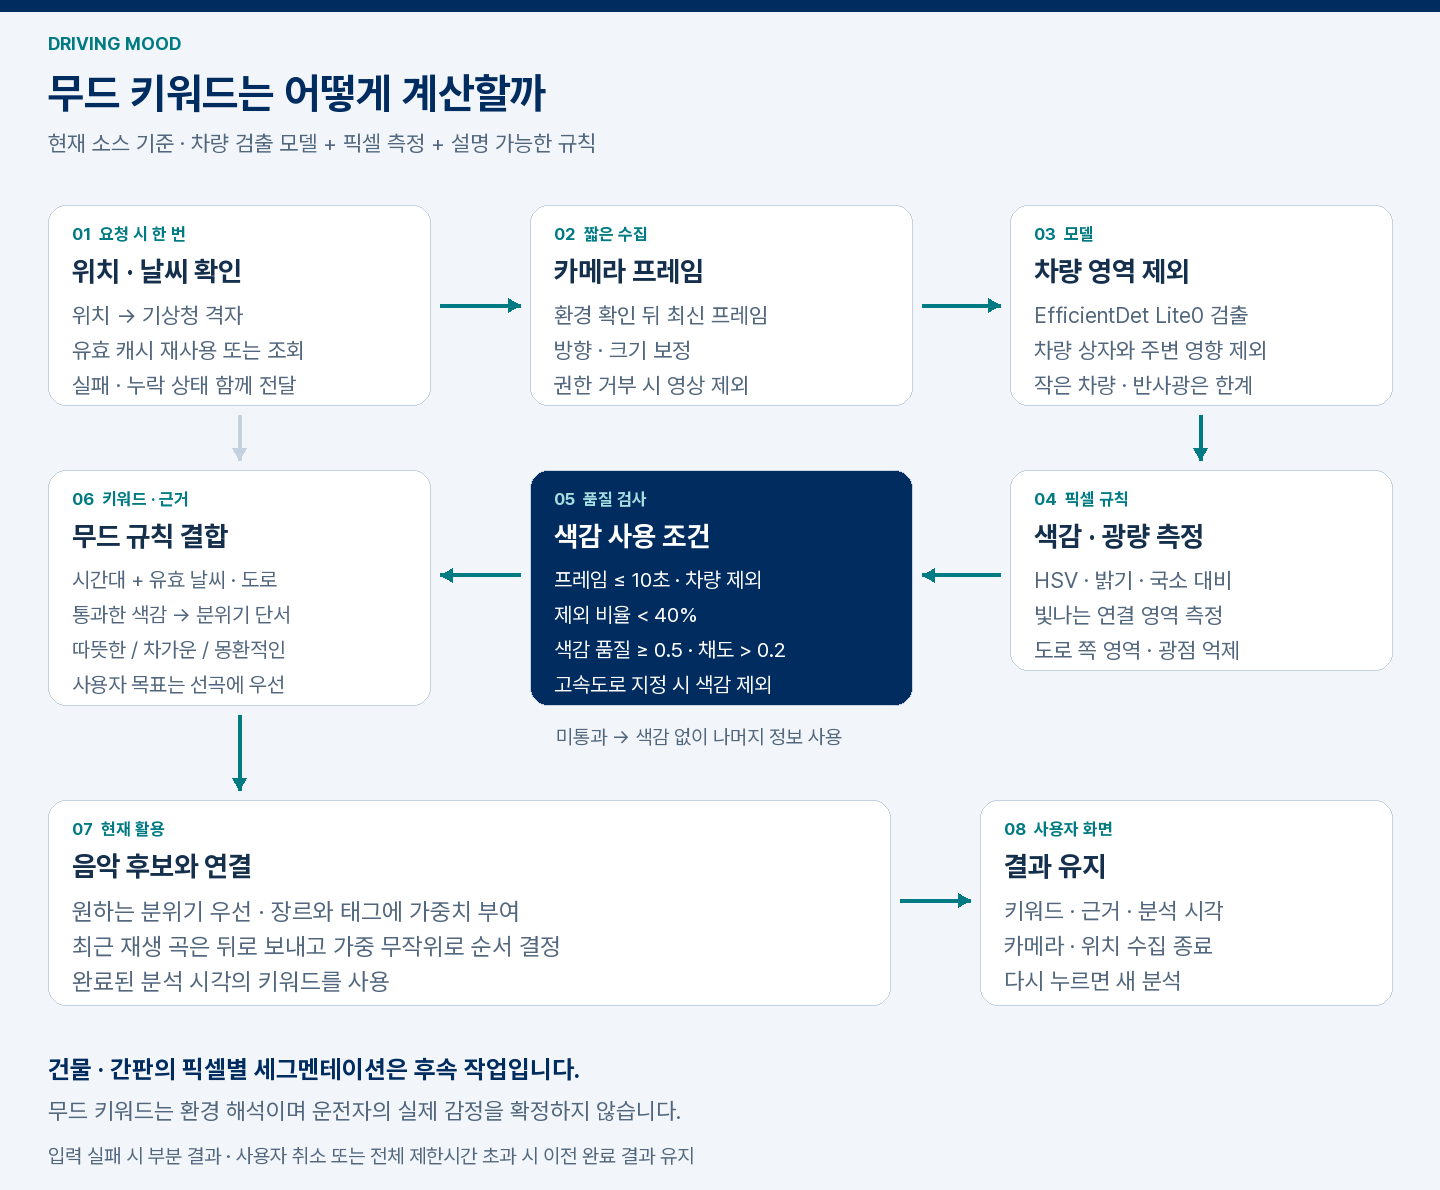
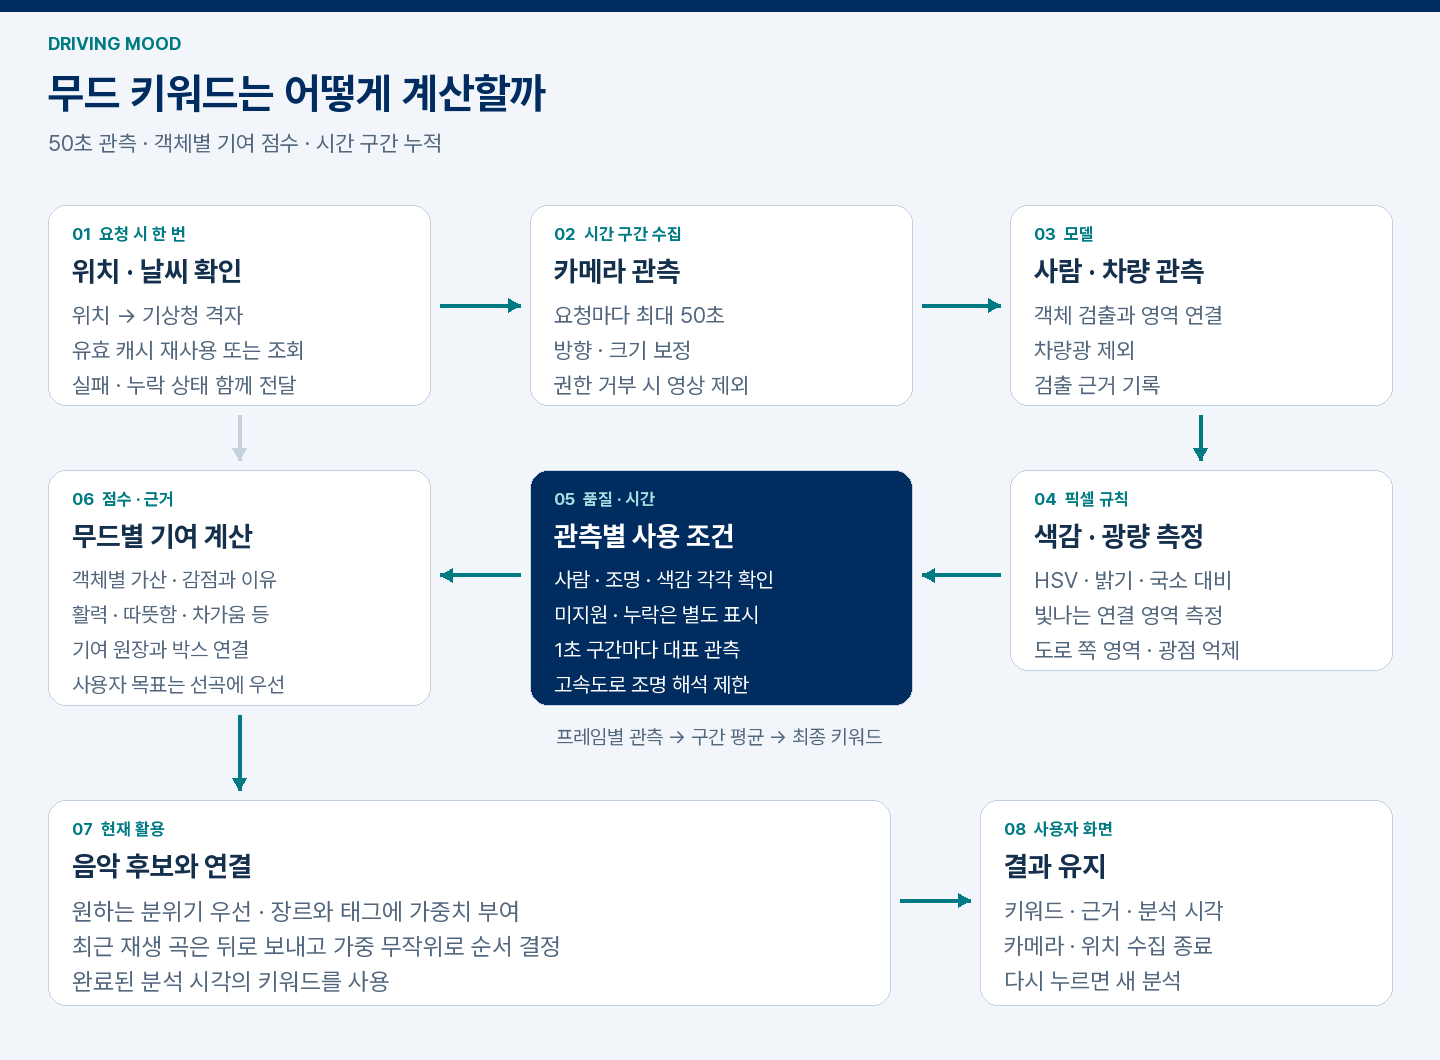
Simplify captions and diagrams for the analysis mechanism

diff --git a/scripts/render-project-visuals.py b/scripts/render-project-visuals.py
@@ -77,47 +77,44 @@ def overview():
     c.card((1040,570,1392,720), "주변 장소", ["분위기에 맞는 장소 추천"], tag="후속 확장")
     for y in (285,465,645):
         c.arrow([(945,450),(985,450),(985,y),(1030,y)])
-    c.text(48,755,"사용자 목표는 음악 추천에 우선 반영 · 공통 엔진 분리와 차량 연동은 후속 개발",20,color=MUTED)
+    c.text(48,755,"사용자 목표는 음악 추천에 우선 반영 · 공용 점수기로 근거 연결 · 차량 연동은 후속 개발",20,color=MUTED)
     c.save("mood-overview.png")
 
 
 def algorithm():
-    c = Canvas(1440, 1190, "무드 키워드는 어떻게 계산할까", "현재 소스 기준 · 차량 검출 모델 + 픽셀 측정 + 설명 가능한 규칙")
+    c = Canvas(1440, 1060, "무드 키워드는 어떻게 계산할까", "50초 관측 · 객체별 기여 점수 · 시간 구간 누적")
     c.card((48,205,430,405), "위치 · 날씨 확인", ["위치 → 기상청 격자", "유효 캐시 재사용 또는 조회", "실패 · 누락 상태 함께 전달"], tag="01  요청 시 한 번", size=22)
-    c.card((530,205,912,405), "카메라 프레임", ["환경 확인 뒤 최신 프레임", "방향 · 크기 보정", "권한 거부 시 영상 제외"], tag="02  짧은 수집", size=22)
-    c.card((1010,205,1392,405), "차량 영역 제외", ["EfficientDet Lite0 검출", "차량 상자와 주변 영향 제외", "작은 차량 · 반사광은 한계"], tag="03  모델", size=22)
+    c.card((530,205,912,405), "카메라 관측", ["요청마다 최대 50초", "방향 · 크기 보정", "권한 거부 시 영상 제외"], tag="02  시간 구간 수집", size=22)
+    c.card((1010,205,1392,405), "사람 · 차량 관측", ["객체 검출과 영역 연결", "차량광 제외", "검출 근거 기록"], tag="03  모델", size=22)
     c.arrow([(440,305),(520,305)])
     c.arrow([(922,305),(1000,305)])
     c.card((1010,470,1392,670), "색감 · 광량 측정", ["HSV · 밝기 · 국소 대비", "빛나는 연결 영역 측정", "도로 쪽 영역 · 광점 억제"], tag="04  픽셀 규칙", size=22)
     c.arrow([(1200,415),(1200,460)])
-    c.card((530,470,912,705), "색감 사용 조건", ["프레임 ≤ 10초 · 차량 제외", "제외 비율 < 40%", "색감 품질 ≥ 0.5 · 채도 > 0.2", "고속도로 지정 시 색감 제외"], dark=True, tag="05  품질 검사", size=21)
+    c.card((530,470,912,705), "관측별 사용 조건", ["사람 · 조명 · 색감 각각 확인", "미지원 · 누락은 별도 표시", "1초 구간마다 대표 관측", "고속도로 조명 해석 제한"], dark=True, tag="05  품질 · 시간", size=21)
     c.arrow([(1000,575),(922,575)])
-    c.card((48,470,430,705), "무드 규칙 결합", ["시간대 + 유효 날씨 · 도로", "통과한 색감 → 분위기 단서", "따뜻한 / 차가운 / 몽환적인", "사용자 목표는 선곡에 우선"], tag="06  키워드 · 근거", size=21)
+    c.card((48,470,430,705), "무드별 기여 계산", ["객체별 가산 · 감점과 이유", "활력 · 따뜻함 · 차가움 등", "기여 원장과 박스 연결", "사용자 목표는 선곡에 우선"], tag="06  점수 · 근거", size=21)
     c.arrow([(520,575),(440,575)])
     c.arrow([(239,415),(239,460)], color=LINE)
-    c.text(556,724,"미통과 → 색감 없이 나머지 정보 사용",20,color=MUTED)
+    c.text(556,724,"프레임별 관측 → 구간 평균 → 최종 키워드",20,color=MUTED)
     c.card((48,800,890,1005), "음악 후보와 연결", ["원하는 분위기 우선 · 장르와 태그에 가중치 부여", "최근 재생 곡은 뒤로 보내고 가중 무작위로 순서 결정", "완료된 분석 시각의 키워드를 사용"], tag="07  현재 활용", size=24)
     c.card((980,800,1392,1005), "결과 유지", ["키워드 · 근거 · 분석 시각", "카메라 · 위치 수집 종료", "다시 누르면 새 분석"], tag="08  사용자 화면", size=23)
     c.arrow([(239,715),(239,790)])
     c.arrow([(900,900),(970,900)])
-    c.text(48,1054,"건물 · 간판의 픽셀별 세그멘테이션은 후속 작업입니다.",25,True,BLUE)
-    c.text(48,1097,"무드 키워드는 환경 해석이며 운전자의 실제 감정을 확정하지 않습니다.",23,color=MUTED)
-    c.text(48,1143,"입력 실패 시 부분 결과 · 사용자 취소 또는 전체 제한시간 초과 시 이전 완료 결과 유지",20,color=MUTED)
     c.save("algorithm-pipeline.png")
 
 
 def request_animation():
     titles = ["분석 요청", "위치 · 날씨", "카메라 분석", "무드 계산", "결과 유지"]
     details = [
-        ("사용자가 분석을 시작합니다", ["앱을 열기만 하면 수집하지 않습니다.","권한을 확인하고, 진행 중에는 중복 요청을 막습니다."]),
-        ("필요한 환경 정보를 한 번 확인합니다", ["현재 위치로 조회 지역을 정하고 유효한 날씨 캐시를 찾습니다.","캐시가 없을 때만 조회하며, 실패한 입력은 누락으로 전달합니다."]),
-        ("최신 프레임에서 사용할 빛을 고릅니다", ["차량 영역을 제외하고 색감과 밝기를 측정합니다.","이 단계는 차량 검출과 픽셀 측정이며 의미 분할은 후속입니다."]),
-        ("검사를 통과한 단서만 키워드에 반영합니다", ["색감 품질 · 최신성 · 도로 맥락을 검사합니다.","시간과 유효 날씨를 결합하고 키워드·근거·누락 상태를 만듭니다."]),
-        ("수집을 멈추고 완료 결과를 보여줍니다", ["음악은 완료된 분석 결과를 사용합니다.","새로운 환경을 반영하려면 사용자가 다시 분석을 누릅니다."]),
+        ("분석 버튼으로 시작", ["카메라와 위치 권한 확인", "새 분석 요청 생성"]),
+        ("주행 환경 확인", ["현재 위치로 기상청 조회 지역 결정", "유효한 날씨 캐시 재사용"]),
+        ("50초 동안 장면 관측", ["사람 · 차량 · 주변 조명과 색감", "1초 구간별 대표 관측 저장"]),
+        ("관측별 기여로 무드 점수를 계산합니다", ["차량 불빛은 조명에서 제외하고 가산·감점의 이유를 남깁니다.","시간 구간별 대표 관측을 모아 최종 점수와 키워드를 만듭니다."]),
+        ("무드 결과와 음악 추천", ["환경 키워드와 주요 기여 표시", "원하는 분위기와 선호 장르 반영"]),
     ]
     frames=[]
     for index, (heading, lines) in enumerate(details):
-        c=Canvas(1280,700,"누를 때 한 번, 완료하면 멈춤", "처리 순서 설명 애니메이션 · 앱 녹화가 아니며 실제 처리 시간을 나타내지 않습니다.")
+        c=Canvas(1280,700,"프로토타입의 분석 매커니즘", "환경 관측 → 무드 키워드 → 음악 추천")
         for i,title in enumerate(titles):
             x=48+i*244
             active=i==index
@@ -134,9 +131,9 @@ def request_animation():
 def keywords():
     c=Canvas(1440,480,"더 다양한 무드 키워드", "환경에서 얻은 단서와 사용자가 원하는 분위기를 구분합니다.")
     c.card((48,205,466,395),"차가운",["품질을 통과한 파랑 · 청록 색감", "또는 사용자가 직접 선택"],tag="색감 단서 / 선택",size=22)
-    c.card((510,205,928,395),"우울",["사용자가 원하는 음악 분위기", "영상에서 자동 판정하지 않음"],tag="사용자 선택",size=22)
-    c.card((972,205,1390,395),"활기 넘침",["사용자가 원하는 음악 분위기", "밝기만으로 자동 판정하지 않음"],tag="사용자 선택",size=22)
-    c.text(48,430,"선택을 바꾸면 완료된 분석 결과로 추천만 갱신 · 추가 카메라 · 위치 · 날씨 수집 없음",21,color=MUTED)
+    c.card((510,205,928,395),"우울",["사용자가 원하는 음악 분위기", "차분한 장르와 곡 태그 연결"],tag="사용자 선택",size=22)
+    c.card((972,205,1390,395),"활기 넘침",["사람 · 주변 조명의 기여", "또는 사용자가 직접 선택"],tag="장면 단서 / 선택",size=22)
+    c.text(48,430,"환경에서 얻은 분위기와 사용자의 목표를 함께 반영합니다.",21,color=MUTED)
     c.save("mood-keywords.png")
 
 

diff --git a/docs/product/VISUALS.md b/docs/product/VISUALS.md
@@ -1,20 +1,18 @@
 # 그림과 구현 코드
 
-README의 도식은 제품 구조와 현재 알고리즘을 설명합니다. 실제 주행 영상에 모델을 실행한 결과는 [주행 시연](DRIVING_DEMO.md)에 별도로 정리했습니다.
+README의 도식은 제품 구조와 현재 알고리즘을 설명합니다. [실제 주행 실험](DRIVING_DEMO.md)과 [점수 설계](MOOD_SCORING.md)에서 계산 근거를 확인할 수 있습니다.
 
 ## 제품 구조
 
 ![무드 키워드와 현재 활용 및 후속 확장](assets/mood-overview.png)
 
-현재 키워드는 추천기 내부에서 생성하며, 원하는 분위기·선호 장르·곡 태그는 선곡에 사용합니다. 현재 기분과 수정 피드백, 공통 무드 엔진 분리, 내비게이션·실내조명·주변 장소 연결은 후속 개발입니다.
+현재 키워드는 공용 점수기가 관측별 기여를 결합해 생성합니다. 원하는 분위기·선호 장르·곡 태그는 선곡에 사용합니다. 현재 기분과 수정 피드백, 내비게이션·실내조명·주변 장소 연결은 후속 개발입니다.
 
 ![차가운·우울·활기 넘침 키워드의 사용 방식](assets/mood-keywords.png)
 
-## 요청 흐름
+## 프로토타입의 분석 매커니즘
 
 ![요청형 분석 처리 순서](assets/request-flow.gif)
-
-설명용 애니메이션입니다. 각 단계의 표시 시간은 읽기 편하게 정했으며 지연·FPS 측정값이 아닙니다. [정지 그림](assets/request-flow-static.png)
 
 실행 흐름: [OneShotAnalysisRunner](../../app/src/main/java/kr/urbanmood/integration/OneShotAnalysis.kt)는 권한 확인, 환경 수집, 카메라 샘플, 추천 순서를 제어합니다. [MainActivity](../../app/src/main/java/kr/urbanmood/MainActivity.kt)는 요청 상태와 취소·화면 생명주기, 완료 결과 표시를 연결합니다.
 
@@ -27,11 +25,12 @@ README의 도식은 제품 구조와 현재 알고리즘을 설명합니다. 실
 | 위치·날씨 | [AndroidEnvironmentProvider](../../app/src/main/java/kr/urbanmood/context/AndroidEnvironmentProvider.kt), [WeatherRequests](../../app/src/main/java/kr/urbanmood/context/WeatherRequests.kt): 1회 수집, 캐시, 중복 요청·재시도 제한 |
 | 영상 입력 | [CameraController](../../app/src/main/java/kr/urbanmood/camera/CameraController.kt): 최신 프레임 수신과 수집 종료 |
 | 차량 제외·픽셀 측정 | [영상 분석 설명](../vision/README.md): 차량 검출과 픽셀 측정의 역할·한계 |
-| 색감 사용 조건 | [공통 계약](../../app/src/main/java/kr/urbanmood/contracts/Contracts.kt)의 VisionMeasurementPolicy: 최신성, 제외 비율, 측정 품질과 채도 |
-| 무드 규칙 | [SceneInterpreter](../../app/src/main/java/kr/urbanmood/recommendation/SceneInterpreter.kt): 도로와 색감의 사용 여부 및 분위기 단서 |
+| 관측 사용 조건 | [관측 계약](../../app/src/main/java/kr/urbanmood/contracts/SceneContracts.kt): 실제 출처·관측 종류·품질·미지원 구별 |
+| 시간 구간 누적 | [SceneAccumulator](../../app/src/main/java/kr/urbanmood/recommendation/SceneAccumulator.kt): 최대50초,1초 구간별 대표·중복·경계 처리 |
+| 무드 규칙 | [SceneMoodScorer](../../app/src/main/java/kr/urbanmood/recommendation/SceneMoodScorer.kt): 무드별 가산·감점과 영역 참조 |
 | 키워드·선곡 | [MoodRecommendationEngine](../../app/src/main/java/kr/urbanmood/recommendation/MoodRecommendationEngine.kt): 시간·날씨·도로 결합, 태그 가중치와 최근 곡 순서 |
 
-그림의 10초·40%·0.5·0.2는 현재 코드의 입력 수용 기준입니다. 정확도나 실제 감정 인식 확률이 아닙니다. 생략된 유한값·입력 상태 검사는 연결된 구현을 기준으로 합니다.
+가중치와 적용 조건은 [점수 설계](MOOD_SCORING.md)에서 버전별로 관리합니다.
 
 ## 재생성과 출처
 
@@ -41,4 +40,4 @@ README의 도식은 제품 구조와 현재 알고리즘을 설명합니다. 실
 python scripts/render-project-visuals.py
 ```
 
-위 렌더러는 설명용 도식만 생성합니다. README의 주행 장면은 사용자 제공 영상에 실제 모델을 실행한 자료이며, 장면 이미지나 분할 마스크를 생성 도구로 만들지 않았습니다.
+주행 분석 장면은 실제 영상과 모델 출력으로 구성합니다.
